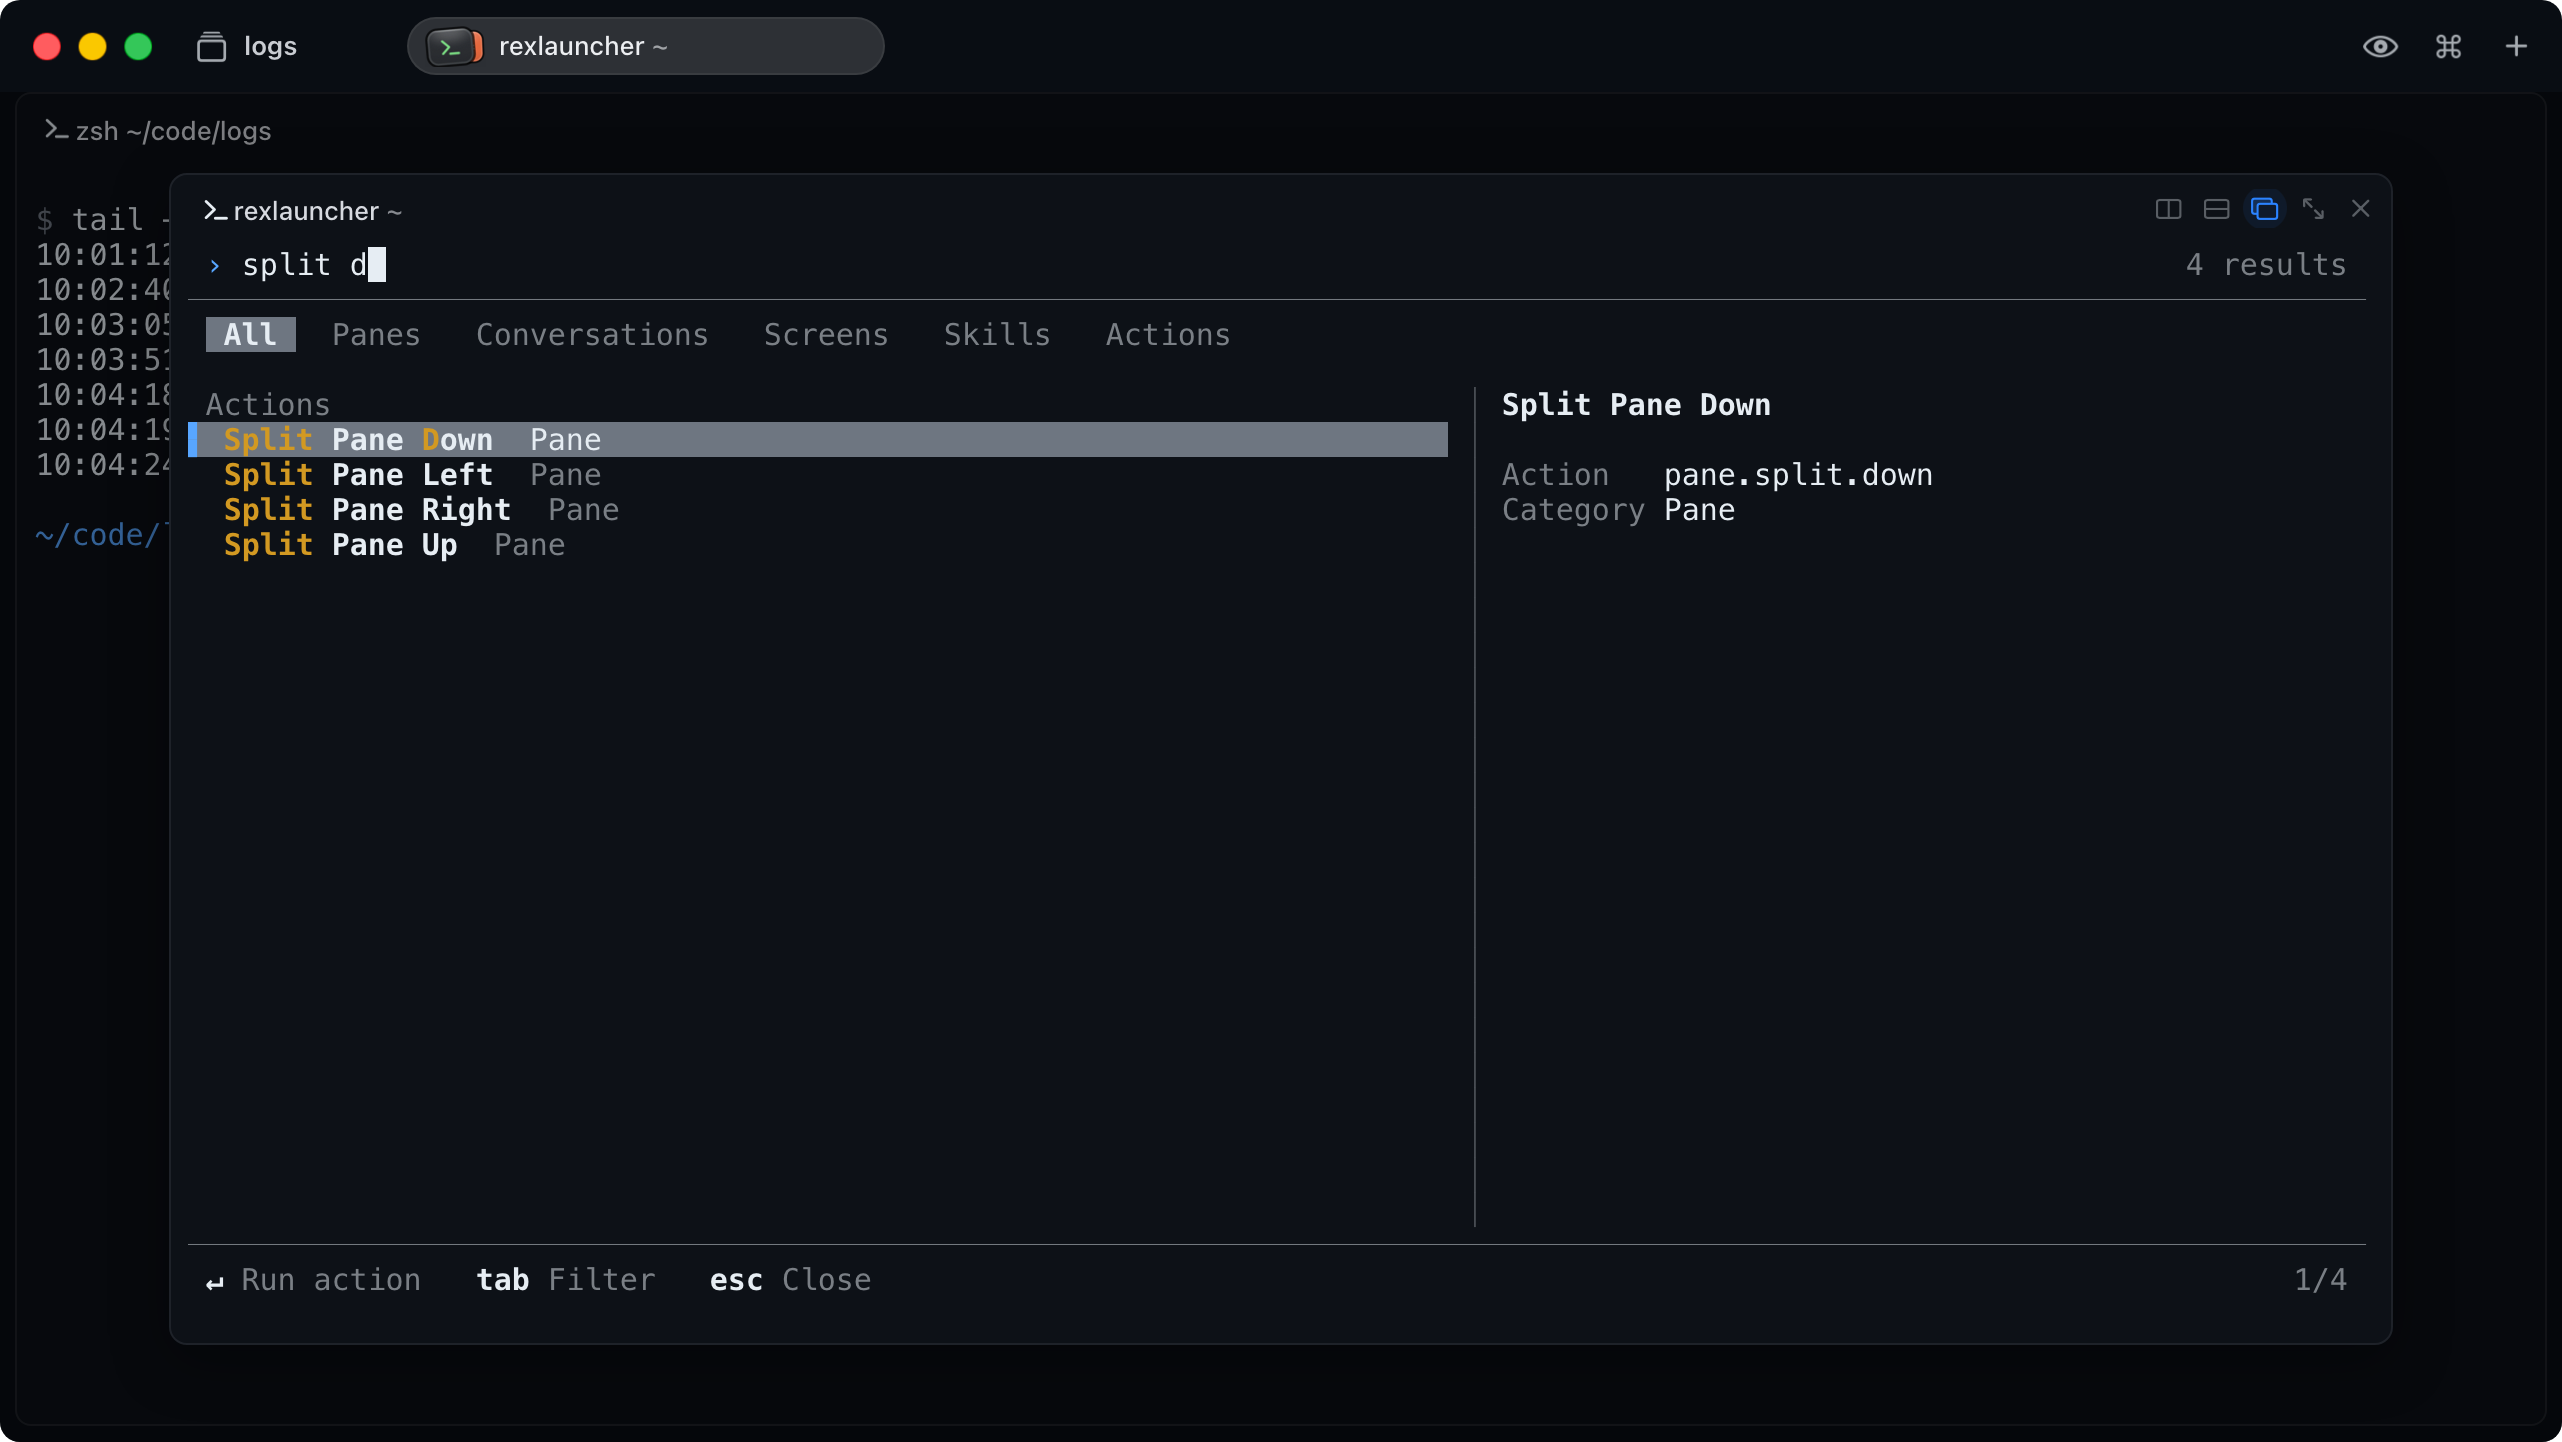
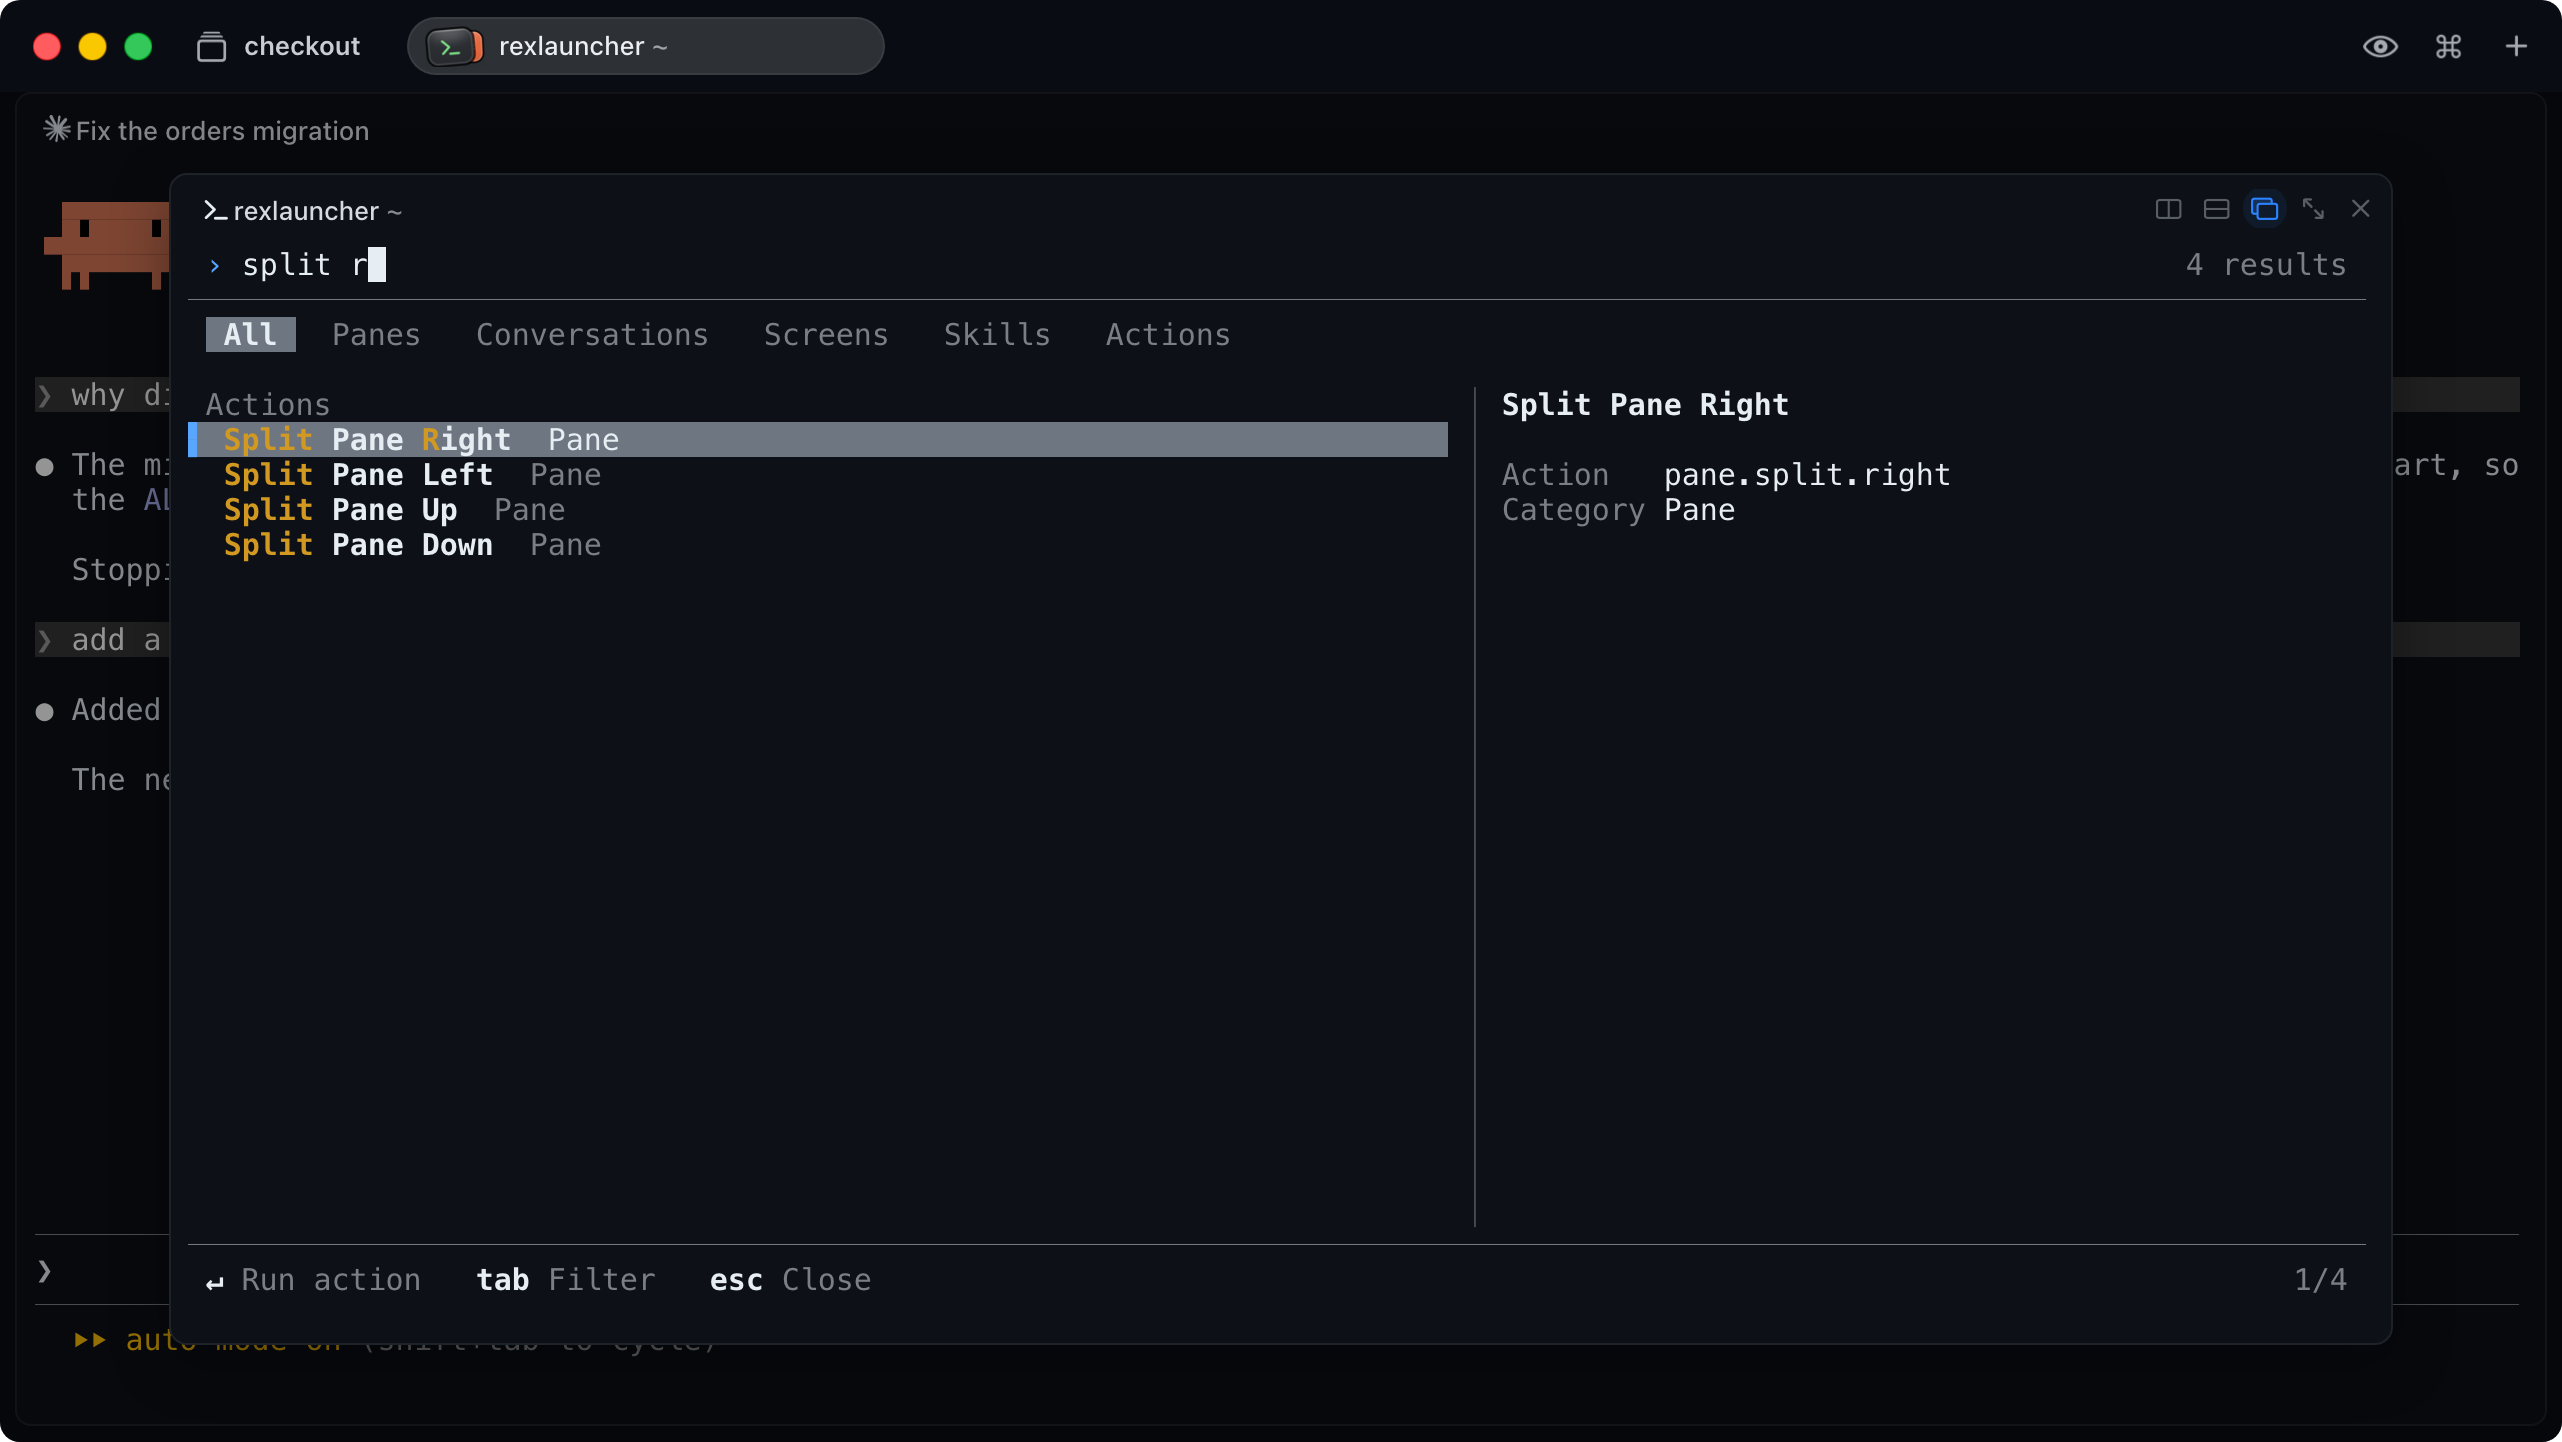
Show the launcher over Claude Code sessions in the README

diff --git a/README.md b/README.md
@@ -3,7 +3,7 @@
 <h3 align="center">Find any Rex pane by what was said in it, run any Rex action, and put any skill in your agent's prompt.</h3>
 
 <p align="center">
-  <img src=".github/assets/hero.gif" width="100%" alt="Rex Launcher open over a dark Rex window. It finds a pane by a word from its conversation and by a word on its screen, splits a pane, then finds a skill and puts /code-review in the Claude Code prompt" />
+  <img src=".github/assets/hero.gif" width="100%" alt="Rex Launcher open over a dark Rex window. Over a Claude Code session, it finds another session by a word from its conversation, splits the pane with split r, then finds a skill and puts /code-review in the prompt" />
 </p>
 
 Rex Launcher is one search box for everything in [Rex](https://www.superlogical.com/rex). Press a key, type a few letters, and press Enter.
@@ -68,7 +68,7 @@ Press the key again to close the picker.
 ## Actions
 
 <p align="center">
-  <img src=".github/assets/actions.png" width="100%" alt="Rex Launcher with the search split d. It lists Split Pane Down, Left, Right and Up as actions" />
+  <img src=".github/assets/actions.png" width="100%" alt="Rex Launcher over a Claude Code session with the search split r. It lists Split Pane Right, Left, Up and Down as actions" />
 </p>
 
 You can run Rex's actions without leaving the search box. It has the actions in Rex's palette and those of your `init.lua`:
